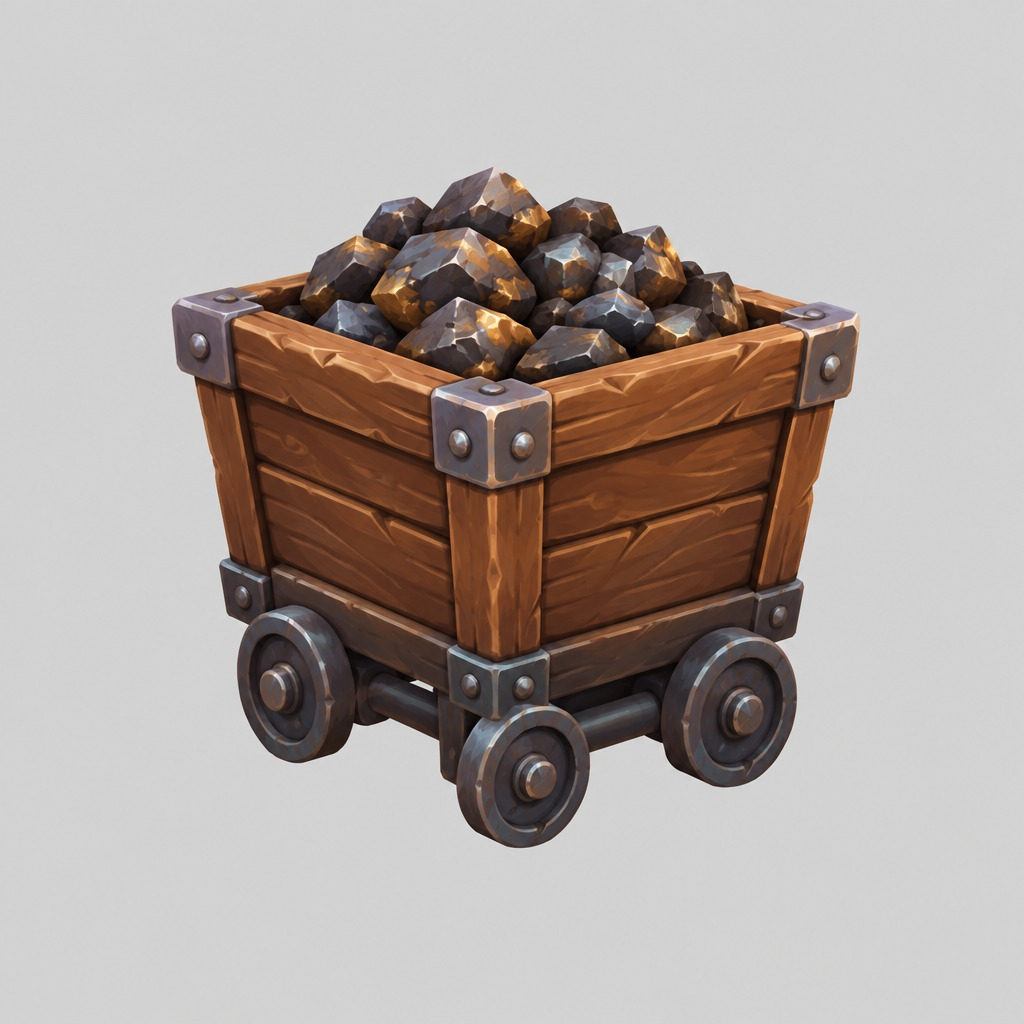
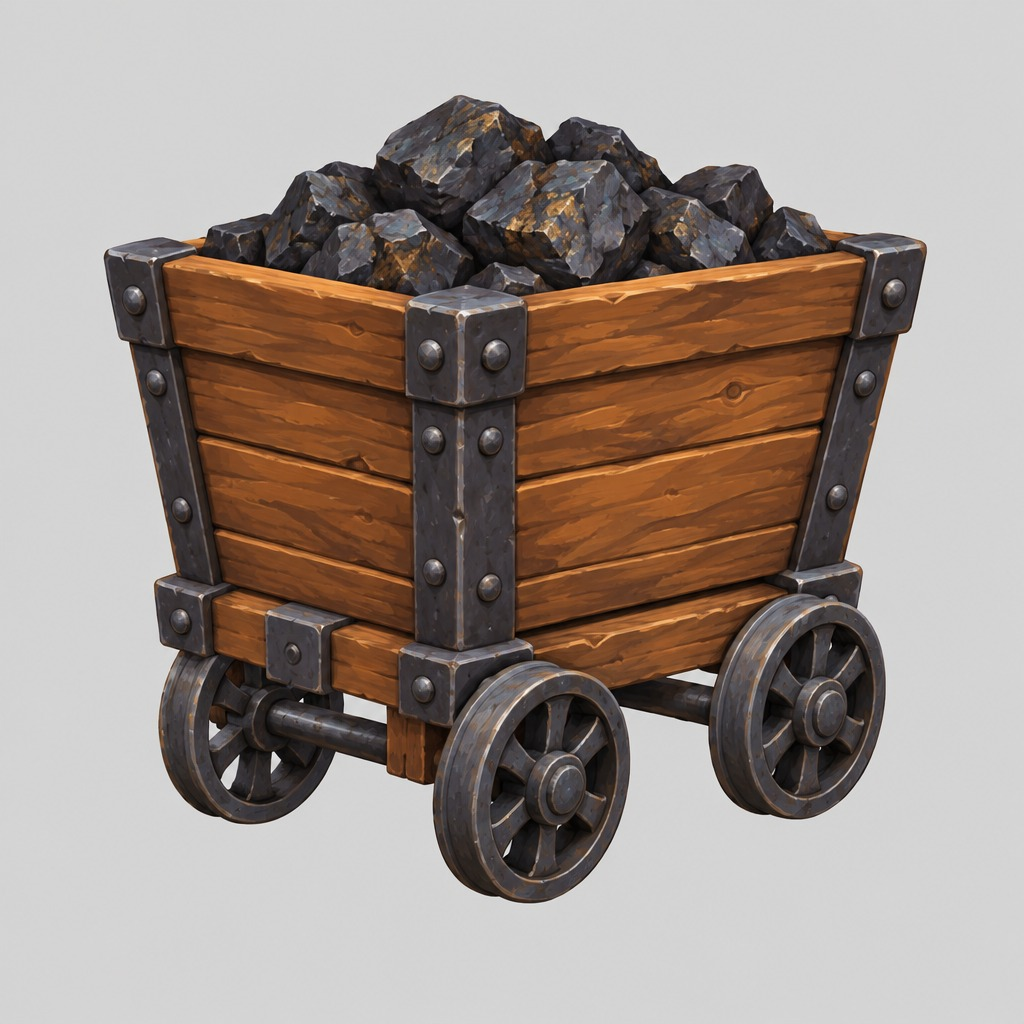
docs: 컨테이너 소품 4종 기술 문서·서드파티 표·컨셉아트 갱신 (6.24, #237)
mine-props.md에 반복 보정 경위(바퀴 정렬·메시 구멍·뚜껑·엠블럼 제거)와
검증 결과를 기록하고, THIRD_PARTY.md·CONCEPT_ART/README.md·PROMPTS.md를
최종 채택 이미지 기준으로 갱신했다.

diff --git a/docs/TECH_NOTES/mine-props.md b/docs/TECH_NOTES/mine-props.md
@@ -1,6 +1,6 @@
-# 소품·환경 에셋 (소형 7종·대형 3종)
+# 소품·환경 에셋 (소형 7종·대형 3종·컨테이너 4종)
 
-> 관련 이슈: #238 · #236 · 최종 수정: 2026-09-22
+> 관련 이슈: #238 · #236 · #237 · 최종 수정: 2026-09-23
 
 **이 문서는 로그다.** 이 기능을 고칠 때마다 갱신한다. 새 문서를 만들지 않는다.
 
@@ -19,6 +19,13 @@
 (이슈 코멘트로 합의), 먼저 만들어져 있던 소형 소품 7종도 같이 옮겼다 — 자세한 내용은
 [AGENTS.md](../../AGENTS.md) 폴더 표 참고.
 
+작업 6.24(#237)에서는 씬 가장자리 **컨테이너 소품 4종**(광차·나무상자·광석 자루·나무통)을
+VARCO 3D 커스텀 워크플로(Claude 도구 연동)로 생성해 `Assets/Prefabs/Props/Small/{Name}Visual.prefab`
+으로 제작했다 — "씬 가장자리 소품"으로 앞선 소형 소품 7종과 같은 분류라 새 폴더 없이 기존
+`Props/Small`에 넣었다. 입력 이미지 4장은 이미 [CONCEPT_ART/README.md](../CONCEPT_ART/README.md)에
+등록돼 있었지만, 광차·나무상자 둘 다 image-to-3D 변환 과정에서 결함이 나와 이미지를 다시 만드는
+과정을 여러 차례 거쳤다 — 자세한 경위는 아래 "반복 보정 경위" 절 참고.
+
 ## 왜 이 방법인가
 
 | 검토한 방법 | 채택 | 이유 |
@@ -31,6 +38,11 @@
 | 갱도 입구를 원본 참고 이미지(레일이 안쪽 깊이 어둠 속으로 사라지는 구도) 그대로 `Generate3D` | ❌ | 6개를 반복 생성해도 매번 프레임이 뒤틀리고 바닥에 레일 파편이 흩어짐. 속이 빈 채 안쪽 깊이가 안 보이는("구멍이 있는") 형태는 사진 한 장에서 깊이를 복원하는 이 모델이 특히 취약한 케이스로 판단 |
 | `EditImage` 로 안쪽 원근감만 줄이기 → 그래도 부족하면 안쪽을 완전 평면 벽으로 막기 | ✅ (최종 채택) | 원근감을 줄인 1차 보정도 여전히 옆면이 뒤틀렸다(사용자가 스크린샷에 빨간 원으로 지적). 안쪽을 깊이감 없는 완전 평평한 검은 벽 + 레일·침목 완전 삭제로 2차 보정한 뒤에야 6개 모두 안정적으로 나왔다. 자세한 경위는 아래 "반복 보정 경위" 참고 |
 | 갱도 입구를 `GenerateImage` 로 완전히 새 컨셉(처음부터 통짜 블록 실루엣)으로 다시 그리기 | 검토했으나 미채택 | 사용자가 "3D 변환이 잘 되는 새 컨셉으로 만들어보라"고 요청해 시도했고 6개 모두 성공했지만, 최종적으로는 기존 사진을 보정한 "평면 막기" 버전이 채택됐다 |
+| 광차: 원본 이미지 그대로 `Generate3D` 재시도만 반복 | ❌ | 바닥 4개 바퀴 방향이 제각각으로 나오는 결함이 재시도해도 반복됐다. 사용자가 VARCO 뷰어 바닥 스크린샷으로 지적 — 원본 이미지가 4개 바퀴 중 일부만 또렷이 보이는 3/4 뷰라 안 보이는 바퀴의 회전을 모델이 추측하는 것으로 판단 |
+| 광차: `GenerateImage` 로 "바퀴 4개는 크기·회전·방향이 전부 동일해야 한다"를 명시해 이미지부터 재생성 | ✅ | 새 이미지로 만든 3D 결과에서 바퀴 방향 문제가 해결됨 |
+| 나무상자: 코너 브래킷 이음매를 `EditImage` 로 "빈틈없이 이어진다"고 보정 | ❌ | 브래킷 근처 나무판이 비어 보이는 결함이 그대로 재현됐다(사용자가 스크린샷으로 지적). 메시가 아니라 이미지 자체의 문제가 아니었던 것으로 판단 |
+| 나무상자: 디테일을 줄인 단순한 상자 이미지로 `GenerateImage` 처음부터 재생성 | ✅ (구조 문제 해결, 이후 디자인 보강) | 입체감 있는 코너 브래킷·대각선 보강재가 안 보이는 뒷면·바닥면 추측을 어렵게 만든 것으로 판단, 디테일을 줄이자 구멍 문제가 사라졌다. 다만 사용자가 "너무 단순하다"고 지적해 이후 `EditImage`로 뚜껑을 얹고, 다시 `GenerateImage`로 이음선 간격 균일화·광산 느낌(낡은 나무·녹슨 철제 밴드·경첩 통일·광석 덩어리)을 순차적으로 보강했다 |
+| 자루: 원본 이미지에 박힌 곡괭이 엠블럼을 `EditImage` 로 제거 | ✅ | 소품 자체는 결함이 없었고 엠블럼만 제거하면 됐다. 1회 보정으로 해결 |
 
 ## 구조
 
@@ -45,6 +57,11 @@ flowchart LR
     glbL["{Name}.glb<br/>VARCO 3D 생성, glTFast 임포트"]
     visualL["Props/Large/{Name}Visual.prefab<br/>root=Visual, 소품별 스케일"]
     glbL --> visualL
+  end
+  subgraph Container["컨테이너 소품 시각 에셋 (4종)"]
+    glbC["{Name}.glb<br/>VARCO 3D 커스텀 워크플로 생성, glTFast 임포트"]
+    visualC["Props/Small/{Name}Visual.prefab<br/>root=Visual, 소품별 스케일+바닥 오프셋"]
+    glbC --> visualC
   end
 ```
 
@@ -81,6 +98,26 @@ flowchart LR
 실측 결과 목표 치수와 오차 0.005유닛 이내로 일치했다 (예: 갱도 입구 2.4006, 목책 0.8000, 자수정
 군락 1.1999).
 
+### 컨테이너 소품 4종
+
+| 에셋 | 경로 | 목표 치수(유닛) | 기준 축 | `localScale` | `localPosition.y` |
+|---|---|---|---|---|---|
+| `OreCartVisual.prefab` | `Assets/Prefabs/Props/Small/` | 0.96 (크리처 1.2배) | height | 0.9695 | 0.4763 |
+| `WoodenCrateVisual.prefab` | `Assets/Prefabs/Props/Small/` | 0.80 (크리처 1배) | height | 0.9187 | 0.3993 |
+| `OreSackVisual.prefab` | `Assets/Prefabs/Props/Small/` | 0.80 (크리처 1배) | height | 0.7953 | 0.3994 |
+| `BarrelVisual.prefab` | `Assets/Prefabs/Props/Small/` | 0.96 (크리처 1.2배) | height | 0.9582 | 0.4804 |
+
+이슈 DoD가 지정한 배율(광차·나무통 1.2배, 상자·자루 1배)을 크리처 높이(0.8유닛)에 곱해 목표
+치수를 정했다. 넷 다 세워진 형태라 height 기준.
+
+**넷 다 `localPosition.y` 가 0이 아니다 — 이전 소형·대형 세트와 다른 점이다.** 앞선 두 세트는
+VARCO 3D 편집기 UI에서 `pivotToBottom` 내보내기 옵션을 직접 켜고 만들어 바닥 피벗으로 나왔지만,
+이번엔 Claude 에이전트가 VARCO 3D 커스텀 워크플로 MCP 도구로 `Generate3D` 노드를 직접 조립해
+실행했다 — 이 워크플로 API의 `Generate3D` 노드에는 `pivotToBottom` 인트린식 자체가 없어(
+`get_node_catalog` 로 확인) 넷 다 중심 피벗으로 나왔다. `BucketVisual` 때와 같은 방법으로
+`Renderer.bounds.min.y` 만큼 `localPosition.y` 를 끌어올려 바닥 피벗처럼 보정했고, 재측정 결과
+`minY = 0.0000`, 목표 치수와 오차 없이 일치했다.
+
 ### 이벤트
 
 해당 없음 — 로직 컴포넌트가 없는 시각 에셋 프리팹.
@@ -110,10 +147,27 @@ flowchart LR
   이번엔 6개 모두 안정적인 형태로 나와 3번째 결과를 최종 채택. 이 과정에서 "입구 위쪽에 곡괭이·삽
   X자 마크를 새겨 달라"는 추가 보정도 시도했고(마크 추가 버전), 별도로 처음부터 다시 그린 "새
   컨셉" 버전도 시도했지만, 최종적으로는 2차 보정(평면 막기, 마크 없음) 버전을 채택했다
+- **광차 (#237)**: 원본 이미지로 만든 3D 결과를 VARCO 뷰어 바닥면에서 확인하니 4개 바퀴의 회전
+  방향이 제각각이었다 → 같은 이미지로 3D만 재생성해도 문제가 재현돼, `GenerateImage` 로 "바퀴
+  4개는 크기·스포크 무늬·회전각이 전부 동일하고 같은 축선에 정렬돼야 한다"를 명시해 이미지부터
+  다시 만든 뒤 재생성 → 바퀴 방향 문제 해결
+- **나무상자 (#237)**: 원본 이미지 3D 결과에서 코너 브래킷 주변 나무판이 비어 보임(사용자가
+  스크린샷에 파란 원으로 지적) → `EditImage` 로 "브래킷 아래 나무가 빈틈없이 이어진다"고 보정 후
+  재생성해도 같은 자리가 여전히 비고 오히려 바닥면 왜곡이 심해짐(2번째 스크린샷) → 사용자가
+  "VARCO 3D가 깊이감 표현을 못 하는 것 같다"고 원인을 짚어, 코너 브래킷·대각선 보강재 디테일을
+  대폭 줄인 단순한 상자 이미지로 `GenerateImage` 처음부터 재생성 → 구멍 문제 해결, 다만 사용자가
+  "너무 단순하다"며 여닫는 뚜껑을 요청 → `EditImage` 로 얇은 뚜껑 추가 → 3D 결과에서 앞면 이음선
+  4줄 중 일부가 끊기고 간격이 불균일, 뚜껑도 너무 얇다는 피드백 → `GenerateImage` 로 "이음선은
+  4줄 모두 끊김 없이 동일 간격, 뚜껑은 판자 한 장 두께의 두꺼운 슬래브"로 명시해 재생성 → 이어서
+  "경첩 모양이 서로 다르다", "광석 나무상자 느낌이 안 난다"는 피드백으로 "경첩 2개는 완전히 동일한
+  형태로 좌우 대칭", "낡은 나무 결·녹슨 철제 밴드·뚜껑 위 작은 광석 덩어리"를 추가해 한 번 더
+  `GenerateImage` 로 재생성 — 이 결과를 최종 채택
+- **자루 (#237)**: 원본 이미지 자체에 곡괭이 십자 엠블럼이 인쇄돼 있어 `EditImage` 로 "엠블럼을
+  지우고 민무늬 삼베 질감으로"만 보정, 1회로 해결
 
 ## 검증
 
-Unity 6000.3.21f1, 2026-09-22.
+Unity 6000.3.21f1, 2026-09-22 ~ 2026-09-23.
 
 - [x] 7개 GLB 모두 glTFast 정상 임포트 확인(`manage_asset search` 로 `assetType=UnityEngine.GameObject`
   확인, 콘솔 임포트 오류·경고 0건)
@@ -129,6 +183,12 @@ Unity 6000.3.21f1, 2026-09-22.
 - [x] 3개 `{Name}Visual.prefab` 생성, 전부 `Shader Graphs/glTF-pbrMetallicRoughness` 셰이더 확인 (분홍 머티리얼 아님)
 - [x] 자수정 군락 머티리얼 Emission 켜 둠(`AmethystClusterEmissive.mat`, `emissiveTexture`=베이스 컬러 재사용, `emissiveFactor=(0.55, 0.25, 0.85)`) — `Object.Instantiate(srcMat)` 로 복제해 `occlusionTexture`/`metallicRoughnessTexture`/`normalTexture` 슬롯 정상 유지 확인. 정확한 밝기 수치 튜닝은 DoD대로 6.26에서 진행
 - [ ] Play Mode 렌더 캡처로 3종 동시 육안 확인 — 미실시
+- [x] 컨테이너 소품 4종 GLB 모두 glTFast 정상 임포트 확인(`manage_asset search` 로 `assetType=UnityEngine.GameObject` 확인, 콘솔 임포트 오류·경고 0건)
+- [x] `Renderer.bounds` 실측으로 4종 스케일·바닥 오프셋 산출, 프리팹 생성 후 재측정해 목표 치수(0.96/0.8/0.8/0.96, 오차 0)·바닥 피벗(`minY=0.0000`) 확인
+- [x] 4개 `{Name}Visual.prefab` 생성 (`Props/Small/`), 전부 `Shader Graphs/glTF-pbrMetallicRoughness` 셰이더 확인 (분홍 머티리얼 아님)
+- [x] 사용자가 스크린샷으로 확인한 결함(광차 바퀴 방향, 나무상자 메시 구멍·이음선·뚜껑·경첩) 전부 재생성 후 사용자 검수 완료
+- [ ] Play Mode 렌더 캡처로 4종 동시 육안 확인 — 미실시
+- [ ] 6.26 씬 배치 시 실측 크기가 다른 소품·크리처와 시각적으로 자연스러운지 재확인 필요
 
 ## 알려진 한계
 
@@ -158,6 +218,20 @@ Unity 6000.3.21f1, 2026-09-22.
   참고 이미지 자체를 손봐서 "안쪽이 실제로는 평평한 벽"인 것처럼 단순화하는 것 — `polygonCount`
   등 `Generate3D` 파라미터로는 해결되지 않았다. 갱도 입구가 이 사례다.
 - 자수정 군락 Emission 밝기, 갱도 입구 프리팹 크기의 최종 미세조정은 6.26(씬 배치)에서 진행한다.
+- **속이 찬 형태라도 입체적인 표면 디테일(돌출된 코너 브래킷·깊게 파인 대각선 보강재 등)이 많으면
+  안 보이는 뒷면·바닥면 재구성이 왜곡될 수 있다.** 나무상자가 이 사례다 — 문·터널처럼 뚫린
+  실루엣이 아닌 완전히 막힌 상자인데도, 표면 디테일이 과할 때 VARCO `Generate3D` 가 안 보이는
+  면의 깊이를 잘못 추측했다. 대응법은 참고 이미지의 표면 디테일 자체를 단순화하는 것 —
+  `polygonCount` 등 파라미터로는 해결되지 않았다.
+- **VARCO 3D 커스텀 워크플로 API로 만든 `Generate3D` 노드에는 `pivotToBottom` 옵션이 없다.**
+  VARCO 3D 편집기 UI로 직접 만들면(이전 소형·대형 세트) 바닥 피벗으로 나오지만, 이 세트는 전부
+  Claude 에이전트가 워크플로 API로 직접 노드를 조립해 실행해 중심 피벗으로 나왔다. 프리팹화 단계에서
+  `Renderer.bounds.min.y` 만큼 `localPosition.y` 를 보정해 바닥 피벗처럼 맞췄다 — "구조" 절 참고.
+- **VARCO 3D 워크플로를 브라우저에서 직접 열어 두면, MCP 도구로 조작하는 중에도 사람이 동시에
+  노드 값을 바꾸거나 재실행할 수 있다.** 이번 작업 중 `polygonCount`·`textureSize` 가 에이전트가
+  설정하지 않은 값으로 여러 번 바뀌고, 완료된 노드가 다시 `running` 으로 돌아가는 현상이 있었는데
+  원인은 서버 오류가 아니라 사용자가 같은 워크플로 세션을 직접 편집하고 있었기 때문이었다. 진행
+  상태가 설명 없이 바뀌면 먼저 "지금 브라우저에서 같이 건드리고 계신가요"를 확인한다.
 
 ## 갱신 이력
 
@@ -171,3 +245,8 @@ Unity 6000.3.21f1, 2026-09-22.
 | 2026-09-22 | #236 | Claude | 소품 프리팹 폴더를 `Assets/Prefabs/Props/Small`·`Props/Large` 로 분리하기로 이슈 코멘트로 합의, `AGENTS.md` 폴더 표 갱신, 기존 소형 소품 7종을 `Props/Small` 로 이동 (커밋 분리) |
 | 2026-09-22 | #236 | Claude | 환경 대형 3종(갱도 입구·목책·자수정 군락) VARCO 3D 생성. 갱도 입구는 원본 이미지로 6회 생성해도 계속 뒤틀려 `EditImage` 로 2차례 보정(원근감 축소 → 안쪽 완전 평면화) 후 6개 모두 안정화, 3번째 결과를 최종 채택. 목책·자수정 군락은 원본 이미지 첫 생성 결과를 그대로 채택 |
 | 2026-09-22 | #236 | Claude | 3종 `{Name}Visual.prefab` 생성 (`Props/Large/`), `Renderer.bounds` 실측으로 이슈 DoD 배율(3배·1배·1.5배)에 맞춰 스케일 계산. 자수정 군락에 `AmethystClusterEmissive.mat` 적용 — 랜턴 사례의 교훈(`Object.Instantiate(srcMat)` 로 복제)을 그대로 따라 텍스처 슬롯 깨짐 없이 적용 |
+| 2026-09-23 | #237 | Claude | 컨테이너 소품 4종(광차·나무상자·자루·나무통) VARCO 3D 커스텀 워크플로로 생성 시작. 자루는 원본 이미지의 곡괭이 엠블럼을 `EditImage` 로 1회 제거해 해결 |
+| 2026-09-23 | #237 | Claude | 광차 3D 결과 바퀴 방향 불일치를 사용자가 스크린샷으로 지적 — 같은 이미지로 3D만 재생성해도 재현돼, 바퀴 정렬을 명시한 새 이미지로 `GenerateImage` 부터 재생성 후 해결 |
+| 2026-09-23 | #237 | Claude | 나무상자 3D 결과의 코너 브래킷 주변 메시 구멍을 사용자가 스크린샷으로 지적 — `EditImage` 보정으로는 재현·악화(바닥면 왜곡 심화)만 됨. 표면 디테일을 대폭 줄인 단순 상자 이미지로 `GenerateImage` 처음부터 재생성해 구멍 문제 해결 |
+| 2026-09-23 | #237 | Claude | 나무상자가 "너무 단순하다"는 피드백으로 `EditImage` 뚜껑 추가 → 이음선 불균일·뚜껑 얇음 피드백으로 `GenerateImage` 재생성(이음선 4줄 균일화, 뚜껑 두껍게) → 경첩 모양 불일치·광산 느낌 부족 피드백으로 한 번 더 `GenerateImage` 재생성(경첩 좌우 대칭 통일, 낡은 나무·녹슨 철제 밴드·광석 덩어리 추가) — 이 결과를 최종 채택 |
+| 2026-09-23 | #237 | Claude | 최종 4개 `.glb` 를 `Assets/Models/` 에 저장, glTFast 정상 임포트 확인. `Renderer.bounds` 실측 결과 넷 다 중심 피벗으로 나온 것을 확인(워크플로 API `Generate3D` 노드에 `pivotToBottom` 없음) — `BucketVisual` 방식대로 `localPosition.y` 보정해 4개 `{Name}Visual.prefab` 을 `Props/Small/` 에 생성 |

diff --git a/docs/THIRD_PARTY.md b/docs/THIRD_PARTY.md
@@ -16,6 +16,7 @@
 | 광석 덩이 4종 3D 모델 (철·구리·은·금) | 3D 모델 | VARCO 3D (https://3d.varco.ai, NC AI 생성형 AI 도구) | 위와 동일 (개인/비상업 라이선스, 팀 계정 교육 용도 허용) | https://terms.varco.ai (전문 미인용, 요약만 기록) | `Coin.prefab`의 액면별 시각 에셋 (`Assets/Models/OreChunkIron.glb`, `OreChunkCopper.glb`, `OreChunkSilver.glb`, `OreChunkGold.glb`). 2026-09-22 생성(#235), 자세한 경위는 [coin-economy.md](TECH_NOTES/coin-economy.md) "시각 매핑" 절 참고 |
 | 소형 소품 7종 3D 모델 (랜턴·곡괭이·삽·경고 표지판·나무 팻말·밧줄·양동이) | 3D 모델 | VARCO 3D (https://3d.varco.ai, NC AI 생성형 AI 도구) | 위와 동일 (개인/비상업 라이선스, 팀 계정 교육 용도 허용) | https://terms.varco.ai (전문 미인용, 요약만 기록) | 씬 가장자리 소품 시각 에셋 (`Assets/Models/Lantern.glb`, `Pickaxe.glb`, `Shovel.glb`, `WarningSign.glb`, `Signboard.glb`, `RopeCoil.glb`, `Bucket.glb`). 2026-09-22 생성(#238) — 양동이는 사용자가 VARCO 3D에서 직접 수정(손잡이 제거)한 버전을 별도로 받아 사용. 자세한 경위는 [mine-props.md](TECH_NOTES/mine-props.md) 참고 |
 | 환경 대형 3종 3D 모델 (갱도 입구·목책·자수정 군락) | 3D 모델 | VARCO 3D (https://3d.varco.ai, NC AI 생성형 AI 도구) | 위와 동일 (개인/비상업 라이선스, 팀 계정 교육 용도 허용) | https://terms.varco.ai (전문 미인용, 요약만 기록) | 씬 가장자리 대형 환경 에셋 (`Assets/Models/TunnelEntrance.glb`, `FenceSection.glb`, `AmethystCluster.glb`). 2026-09-22 생성(#236) — 갱도 입구는 원본 참고 이미지의 깊은 원근감 때문에 이미지→3D 변환이 반복적으로 뒤틀려, 입구 안쪽을 평평한 벽으로 표현하도록 이미지를 보정한 뒤 재생성. 자세한 경위는 [mine-props.md](TECH_NOTES/mine-props.md) 참고 |
+| 컨테이너 소품 4종 3D 모델 (광차·나무상자·자루·나무통) | 3D 모델 | VARCO 3D (https://3d.varco.ai, NC AI 생성형 AI 도구) | 위와 동일 (개인/비상업 라이선스, 팀 계정 교육 용도 허용) | https://terms.varco.ai (전문 미인용, 요약만 기록) | 씬 가장자리 소품 시각 에셋 (`Assets/Models/OreCart.glb`, `WoodenCrate.glb`, `OreSack.glb`, `Barrel.glb`). 2026-09-23 생성(#237) — 광차는 바퀴 방향이 제각각이던 결과를 바퀴 정렬을 명시한 새 이미지로 재생성, 나무상자는 반복된 메시 구멍·왜곡 문제로 단순화한 이미지에서 시작해 여닫이 뚜껑·광산 느낌을 다시 입혀 재생성, 자루는 원본 이미지에 박힌 곡괭이 엠블럼을 EditImage로 제거. 자세한 경위는 [mine-props.md](TECH_NOTES/mine-props.md) 참고 |
 
 ## 기록 규칙
 

diff --git a/docs/CONCEPT_ART/PROMPTS.md b/docs/CONCEPT_ART/PROMPTS.md
@@ -48,6 +48,18 @@ Extract only the {ASSET} from this scene as a single isolated game asset. Center
 | P-01m | FenceSection | `one straight section of the WOODEN RAIL FENCE (two horizontal log rails on three vertical posts, about 3 posts wide)` — `game asset` 을 `modular game asset` 으로 |
 | P-01n | TunnelEntrance | `MINE TUNNEL ENTRANCE (timber support frame: two thick vertical wooden posts with a horizontal beam and cross brace, plus a short length of iron mine rails on wooden sleepers running through it, dark opening inside)` — `whole object fully visible,` 뒤에 `no cave rock around it,` 추가 |
 
+### P-01o~p 컨테이너 소품 4종 재보정 (#237)
+
+작업 6.24(#237)에서 광차·나무상자 image-to-3D 결과에 반복적으로 결함이 나와 P-01 템플릿을 벗어난
+전용 프롬프트로 다시 만들었다. 자루는 P-01d 원본 이미지에 엠블럼이 있었을 뿐이라 `EditImage` 로만
+고쳤다. 반복 경위는 [mine-props.md](../TECH_NOTES/mine-props.md) "반복 보정 경위" 절 참고.
+
+| 번호 | 파일 | 방식 | 내용 |
+|---|---|---|---|
+| P-01o | OreCart (최종) | `GenerateImage` (P-01 형식 이탈, 처음부터) | `ORE CART (wooden mine cart on small iron wheels, loaded with dark ore chunks)` + 배경·구도 지시는 P-01 템플릿과 동일 + "all four wheels must be identical and consistently oriented — same size, same spoke/hub pattern, same rotation angle, all facing the same forward direction and aligned on the same two axle lines. No mismatched, tilted, or randomly rotated wheels." |
+| P-01p | WoodenCrate (최종) | `GenerateImage` (P-01 형식 이탈, 처음부터) | `WOODEN ORE CRATE WITH A HINGED LID (rugged mine storage crate used for hauling ore, thick weathered wood planks with dark grimy dirt-stained grain, sturdy rusty dark-iron corner plates, one rusty iron strap band running across the top of the lid, a couple of small dark ore chunks resting on top of the lid)` + "keep the overall shape a simple, perfectly rectangular cuboid box with flat sides" + "exactly 4 evenly spaced horizontal wood planks ... ONE clean continuous straight seam line ... unbroken from edge to edge" + "LID ... visibly THICK, like a solid slab about as tall as one wood plank" + "exactly TWO hinges: both hinges must be IDENTICAL" |
+| — | OreSack (최종) | `EditImage` (source = P-01d 원본) | `Remove the crossed pickaxe emblem/logo printed on the front of the burlap sack. Keep the sack plain burlap texture with no symbol, no marking, no design on the front — same sack shape, same rope tie, same ore/gold nuggets on top, same lighting and background.` |
+
 ### P-02 광석 덩어리 분리 — 템플릿
 
 P-01 과 같되 `Center it` → `Center it large` (작은 물체라 크게), `three-quarter front view` → `three-quarter view`.

diff --git a/docs/CONCEPT_ART/README.md b/docs/CONCEPT_ART/README.md
@@ -26,9 +26,9 @@
 | `TunnelEntrance` | 환경 — 갱도 입구 (지지대+레일) | https://3d.varco.ai/api/objects/f9ecb0ded00e4fbfd6b864eb97009ed6.png |
 | `FenceSection` | 환경 — 목책 1칸 (모듈) | https://3d.varco.ai/api/objects/288989f6984494909bb73c8209db5f67.png |
 | `AmethystCluster` | 환경 — 자수정 군락 | https://3d.varco.ai/api/objects/50cc277bc1c94f89762b9668f6197a6d.png |
-| `OreCart` | 소품 — 광차 | https://3d.varco.ai/api/objects/21d3127c5f5a3fae8501586dcc70dcf3.png |
-| `WoodenCrate` | 소품 — 나무상자 | https://3d.varco.ai/api/objects/b364981d2a2c937e25914a3a7c736c49.png |
-| `OreSack` | 소품 — 광석 자루 | https://3d.varco.ai/api/objects/906ab95a1b4ef9bc64f8e003daab4b6c.png |
+| `OreCart` | 소품 — 광차 | https://3d.varco.ai/api/objects/08f7b66fb7463547e36034de5e9a8e3f.png |
+| `WoodenCrate` | 소품 — 나무상자 | https://3d.varco.ai/api/objects/0105c1c7b370e6e1d5c384d8b17e2f43.png |
+| `OreSack` | 소품 — 광석 자루 | https://3d.varco.ai/api/objects/c5f2cae53ff0e9e731debced6b97d3cb.png |
 | `Barrel` | 소품 — 나무통 | https://3d.varco.ai/api/objects/f07d66cf4b28228650318357efd60745.png |
 | `Lantern` | 소품 — 랜턴 | https://3d.varco.ai/api/objects/fa427f0e5b3f5ed38721b1aec1a5ca8c.png |
 | `Pickaxe` | 소품 — 곡괭이 (플레이어 도구 후보) | https://3d.varco.ai/api/objects/6b590259b48e44ebc0de74d8de493131.png |
